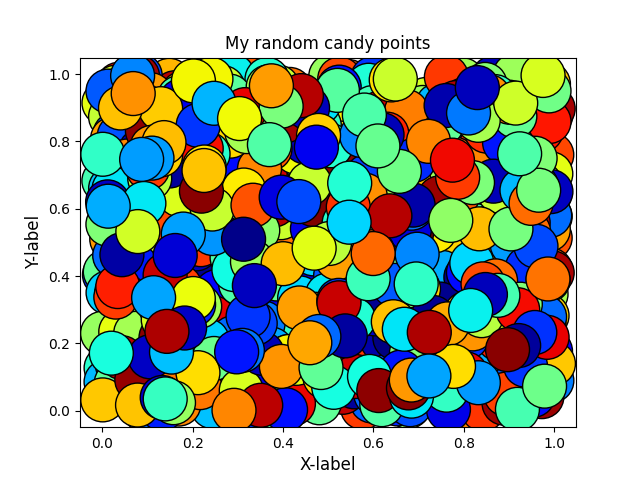
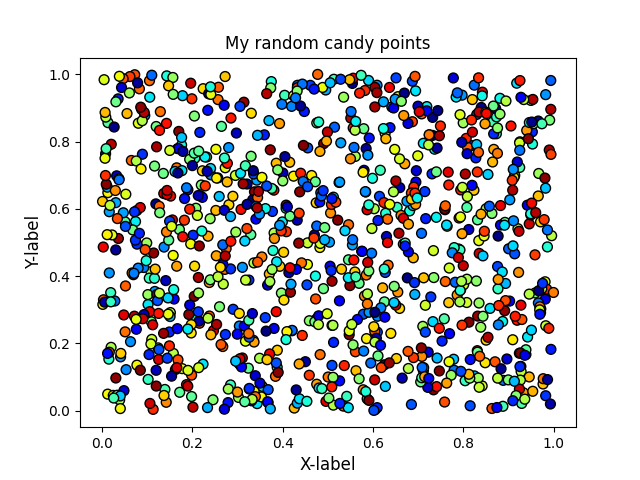
I read 'data/helsinki-vantaa.csv' into data, and parse dates

diff --git a/Exercise_7_problem_2.py b/Exercise_7_problem_2.py
@@ -17,7 +17,12 @@
 # - Parse dates from the column `'DATE'` and set the dates as index in the dataframe 
 
 # YOUR CODE HERE 1 to read the data into data and parse dates
-
+# import pandas
+import pandas as pd
+# read datas
+data = pd.read_csv(filepath_or_buffer = 'data/helsinki-vantaa.csv')
+# parse dates
+data.set_index("DATE",inplace=True)
 # This test print should print first five rows
 print(data.head())
 

diff --git a/Exercise_7_problem_1.py b/Exercise_7_problem_1.py
@@ -55,7 +55,7 @@ assert len(colors) == 1000, "There should be 1000 random numbers for colors"
 
 # Plot a scatter plot
 # YOUR CODE HERE 3
-ax=data.plot(x='x', y='y',kind='scatter',s=1000,c=colors,colormap='jet',edgecolor='black')
+ax=data.plot(x='x', y='y',kind='scatter',s=50,c=colors,colormap='jet',edgecolor='black')
 ax.plot()
 # Add labels and title
 # YOUR CODE HERE 4
